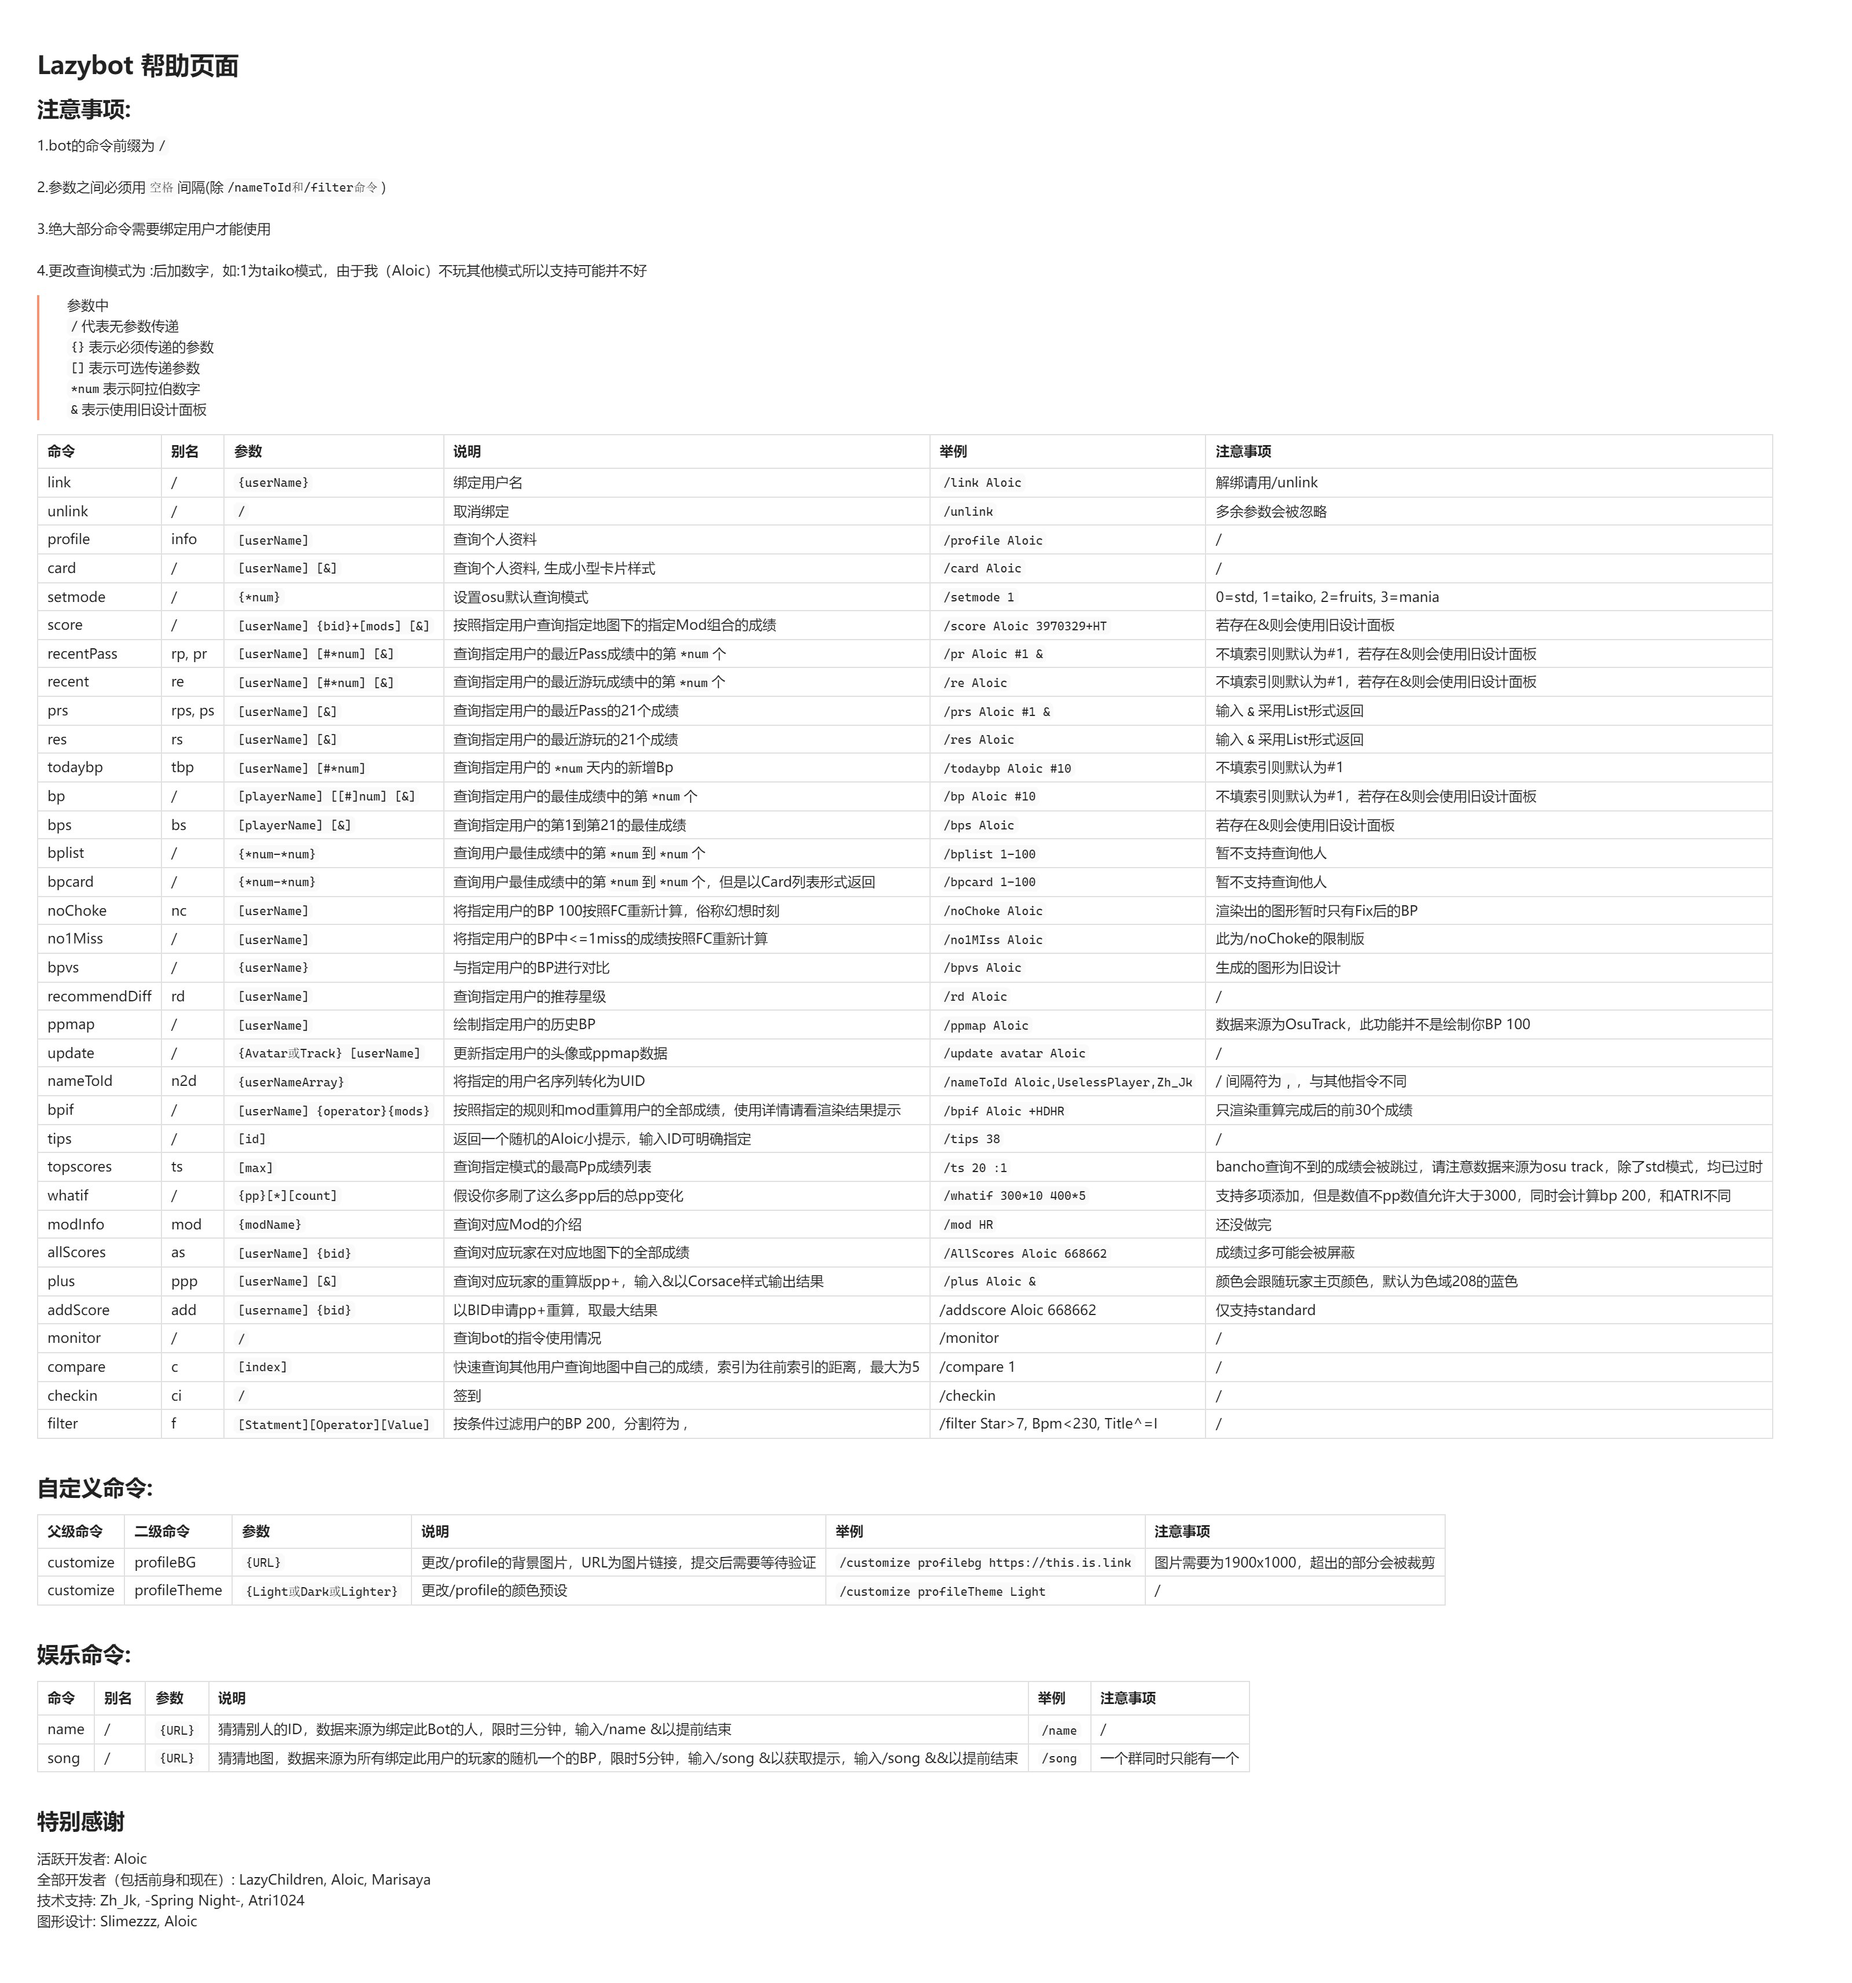
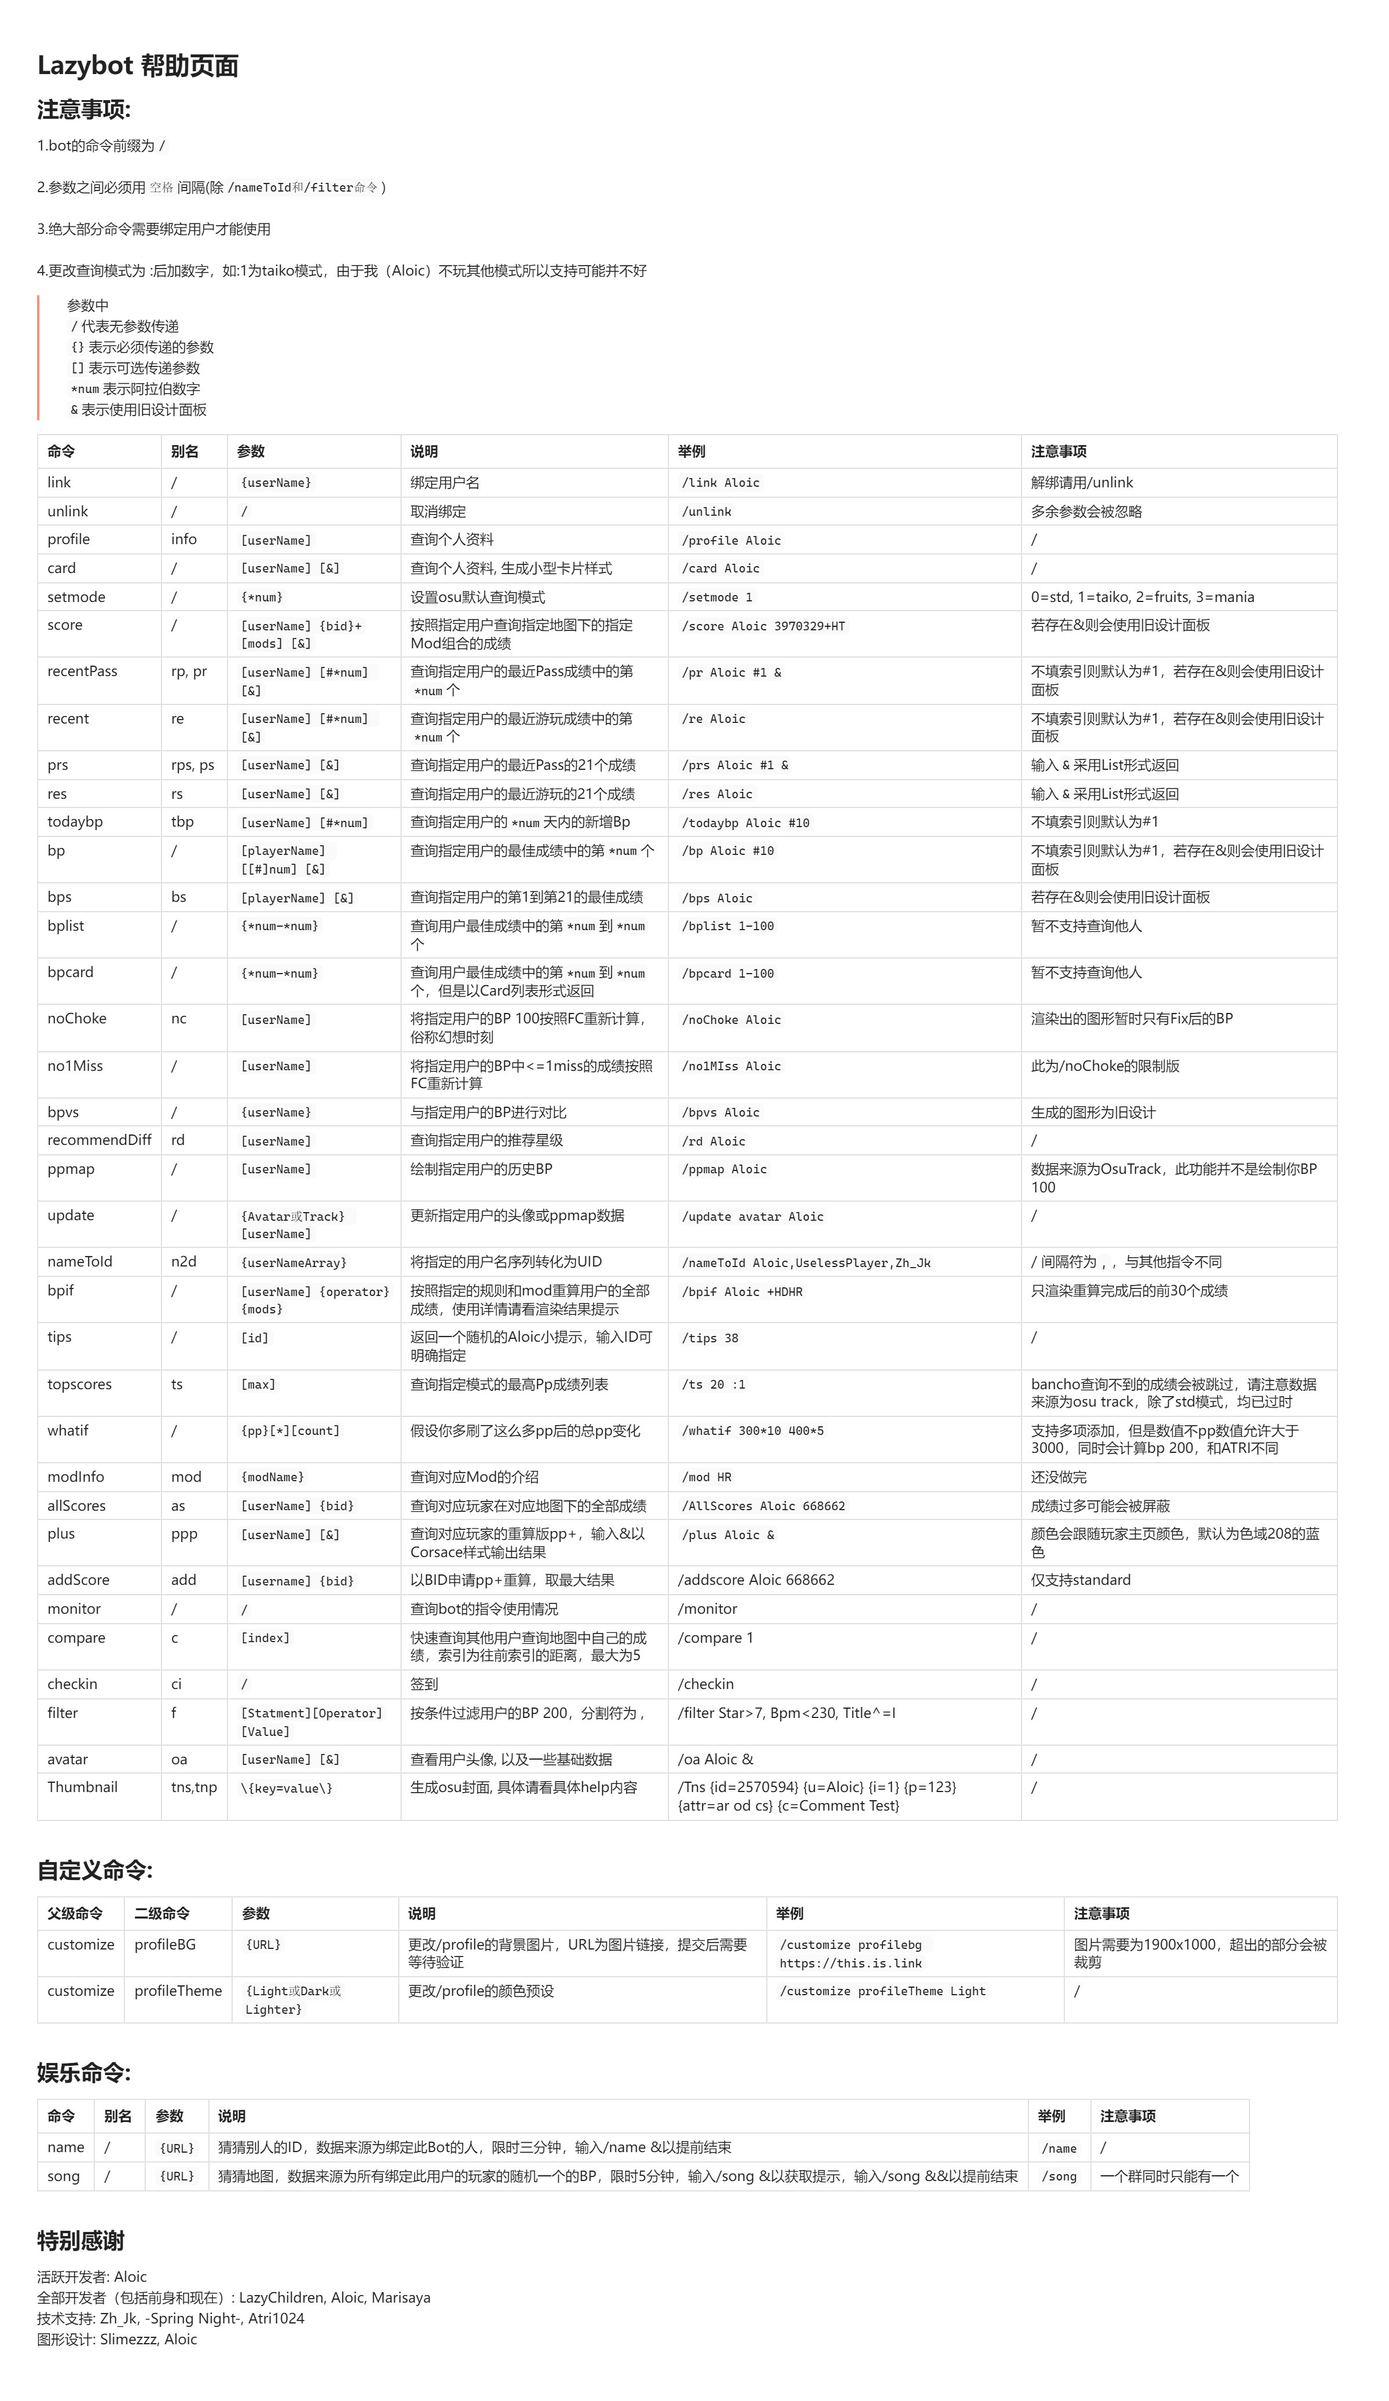
fixed a bug where player with pure number name will cause an exception in CardMoelleux

diff --git a/src/main/java/me/aloic/lazybot/shiro/utils/MessageEventFactory.java b/src/main/java/me/aloic/lazybot/shiro/utils/MessageEventFactory.java
@@ -2,7 +2,6 @@ package me.aloic.lazybot.shiro.utils;
 
 import com.mikuac.shiro.dto.event.message.GroupMessageEvent;
 import me.aloic.lazybot.exception.LazybotRuntimeException;
-import me.aloic.lazybot.monitor.ResourceMonitor;
 import me.aloic.lazybot.osu.enums.OsuMode;
 import me.aloic.lazybot.shiro.event.LazybotSlashCommandEvent;
 import org.slf4j.Logger;
@@ -21,7 +20,7 @@ public class MessageEventFactory
 
     private static final Map<String, OsuMode> modeMap;
 
-    private static final List<String> NON_OSU_COMMAND;
+    private static final List<String> IGNORE_PREPROCESS_COMMANDS;
 
     private static final Logger logger = LoggerFactory.getLogger(MessageEventFactory.class);
     static{
@@ -31,7 +30,7 @@ public class MessageEventFactory
                 ":2",OsuMode.Catch,
                 ":3",OsuMode.Mania);
 
-        NON_OSU_COMMAND = List.of("help", "customize","addtips","tips","tns");
+        IGNORE_PREPROCESS_COMMANDS = List.of("help", "customize","addtips","tips","tns","tnp","thumbnail");
     }
 
 
@@ -67,7 +66,7 @@ public class MessageEventFactory
         String s = convertString(command);
         s=s.substring(1);
         List<String> information = new java.util.ArrayList<>(List.of(s.split(" ")));
-        if (!NON_OSU_COMMAND.contains(information.getFirst().toLowerCase().trim())) {
+        if (!IGNORE_PREPROCESS_COMMANDS.contains(information.getFirst().toLowerCase().trim())) {
             s = formatCommand(s);
             slashCommandEvent.setScorePanelVersion(countOccurrences(s, '&'));
             s = s.replace("&", "");
@@ -87,7 +86,7 @@ public class MessageEventFactory
                 }
             }
         }
-        slashCommandEvent.setCommandType(information.getFirst());
+        slashCommandEvent.setCommandType(information.getFirst().toLowerCase());
         slashCommandEvent.setCommandParameters(information.subList(1, information.size()));
     }
     private static String formatCommand(String s)

diff --git a/src/main/java/me/aloic/lazybot/graphics/mapping/documentMapper/PlayerInfoSVGMapper.java b/src/main/java/me/aloic/lazybot/graphics/mapping/documentMapper/PlayerInfoSVGMapper.java
@@ -156,10 +156,15 @@ public class PlayerInfoSVGMapper extends LazybotSVGMapper
 
         doc.getElementById("footer-bg").setAttribute("fill", mainBorderColor.toString());
         doc.getElementById("renderTime").setTextContent(SVGElementHelper.dateNow());
+
+        MoelleuxTypeEnum type = MoelleuxTypeEnum.fromHue(primaryHue);
+
         String namePlayer =  player.getInfo().getPlayerName().toLowerCase()
                         .replace("-", "")
                 .replaceAll("\\d", "");
-
+        if (namePlayer.isEmpty()) {
+            namePlayer = type.getName();
+        }
         player.getInfo().setPlayerName(
                 namePlayer.substring(0, 1).toUpperCase()
                         + namePlayer.substring(1)
@@ -210,7 +215,6 @@ public class PlayerInfoSVGMapper extends LazybotSVGMapper
         doc.getElementById("bp-elli-3").setAttribute("fill", ellisColor.toString());
         doc.getElementById("bp-elli-4").setAttribute("fill", ellisColor.toString());
 
-        MoelleuxTypeEnum type = MoelleuxTypeEnum.fromHue(primaryHue);
         doc.getElementById("index").setTextContent("#"+type.ordinal());
         doc.getElementById("card-type").setTextContent(type.getName());
         doc.getElementById("info").setTextContent(type.getName()+": "+player.getInfo().getPlayerName());
